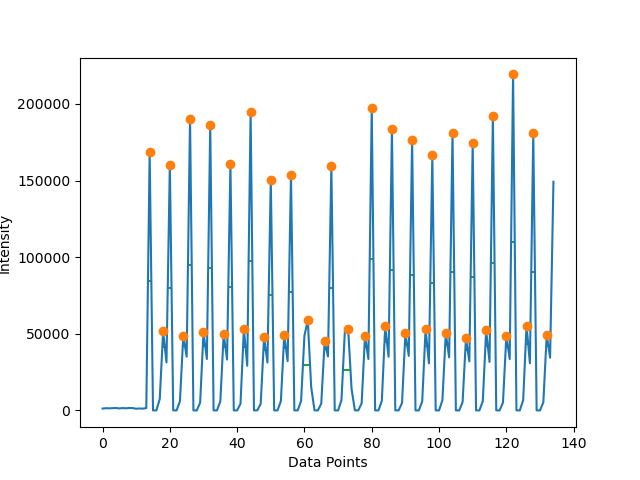
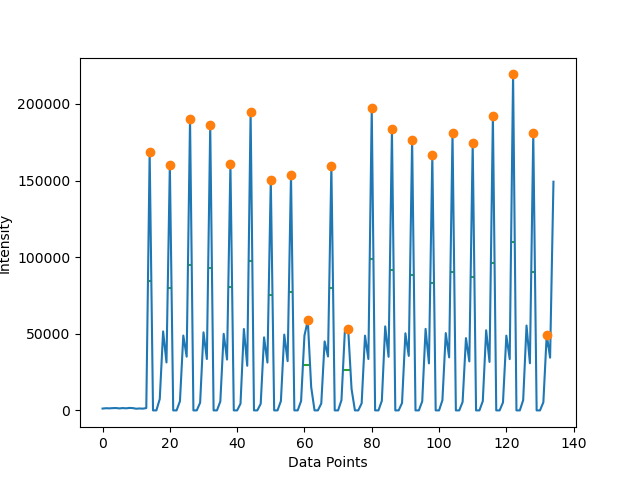
find_peak distance feature

diff --git a/CBM_scripts/CBM_parse.py b/CBM_scripts/CBM_parse.py
@@ -85,7 +85,7 @@ def plot_data(d):
         #peak finder via Y values. Threshold = height (can alter based on data)
         #Can use peak_list variable to select which peak you want to base the height off of
         #peaks, _ = find_peaks(dfy, height = max(dfy)*0.4)
-        peaks, _ = find_peaks(dfy, height = peak_list[4]*0.2, distance = 2)
+        peaks, _ = find_peaks(dfy, height = peak_list[4]*0.2, distance = 3.5)
         #peak width at 1/2 peak height
         results_half = peak_widths(dfy, peaks, rel_height=0.5)
         results_half[0]
